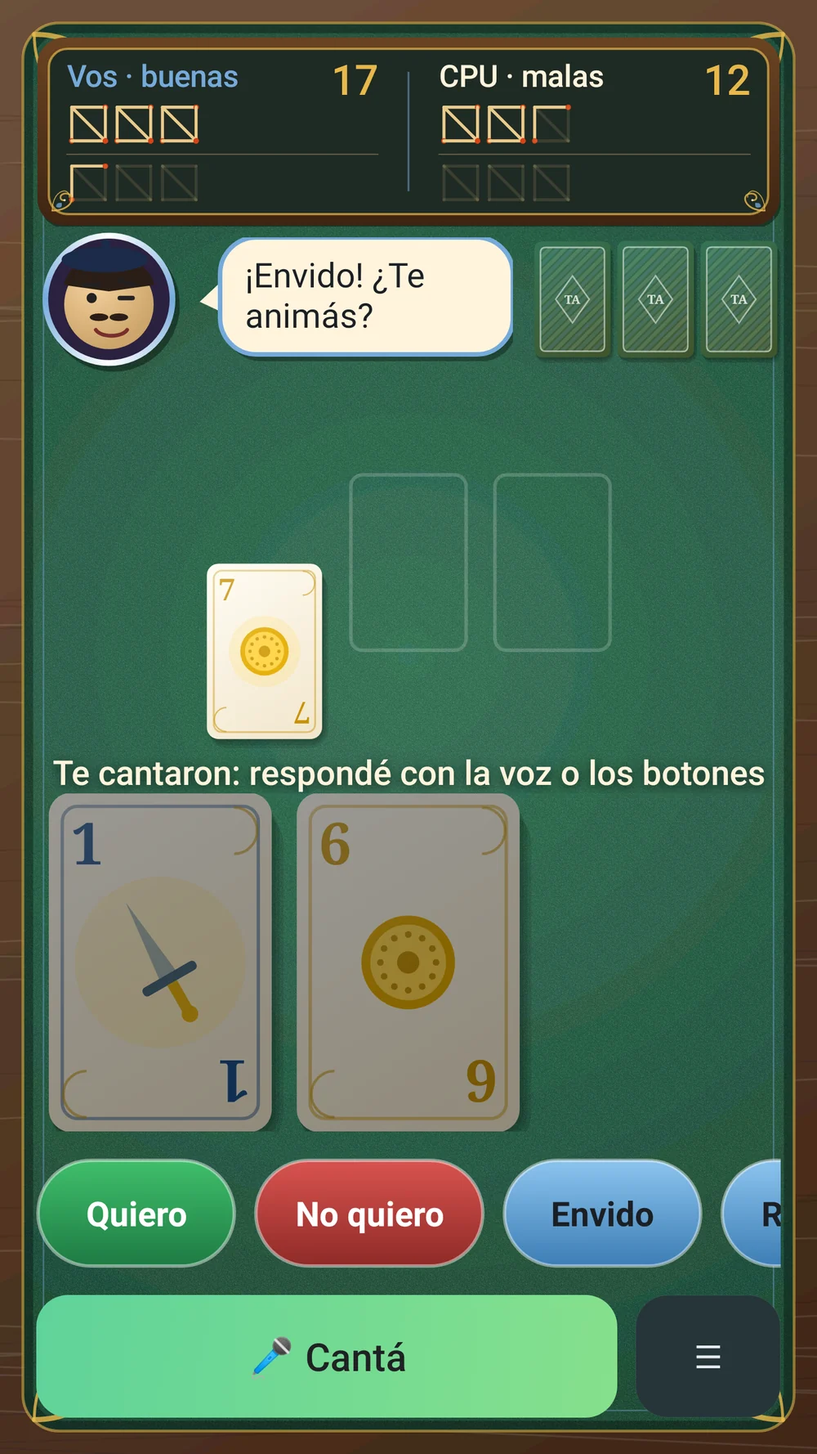
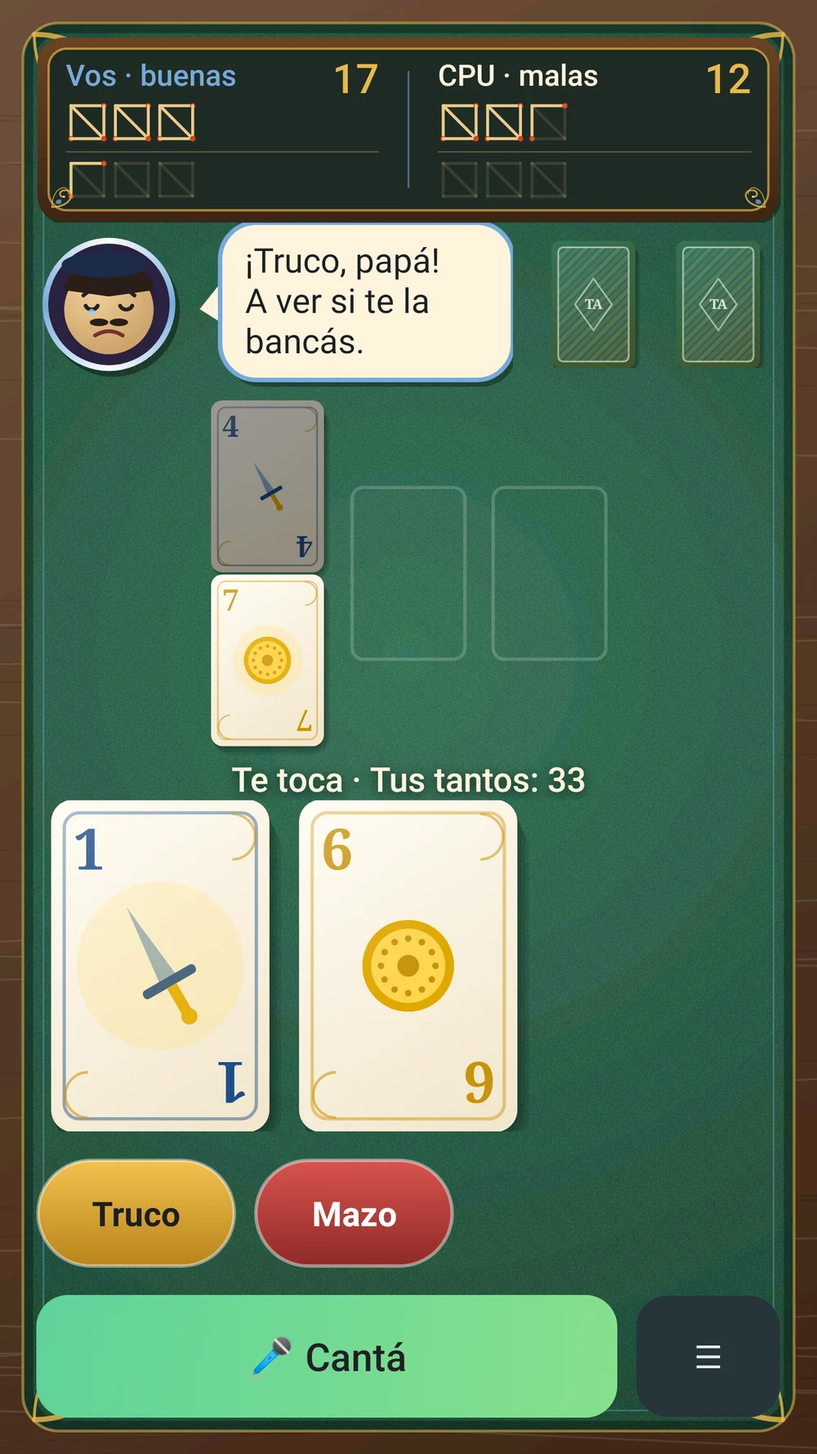
Truco Argento 1.3.0: acento argentino, caras del rival e hinchas

diff --git a/apps/truco-argento.html b/apps/truco-argento.html
@@ -1,14 +1,14 @@
 <!doctype html><html lang="es-AR" data-tema="oscuro" data-raiz=".."><head><meta charset="utf-8"><meta name="viewport" content="width=device-width,initial-scale=1">
-<title>Truco Argento — SumoSoft</title><script type="application/ld+json">{"@context": "https://schema.org", "@type": "SoftwareApplication", "name": "Truco Argento", "description": "Un rival que te conoce: truco por voz contra una CPU que aprende cómo jugás, miente y te chicanea con eso.", "operatingSystem": "Android 9 o superior", "applicationCategory": "UtilitiesApplication", "softwareVersion": "1.2.0", "url": "https://nachosumo-droid.github.io/apps/apps/truco-argento.html", "image": "https://nachosumo-droid.github.io/apps/img/marca/og-image.png", "inLanguage": "es-AR", "publisher": {"@type": "Organization", "name": "SumoSoft", "url": "https://nachosumo-droid.github.io/apps/"}, "offers": {"@type": "Offer", "price": "3999", "priceCurrency": "ARS", "availability": "https://schema.org/InStock", "url": "https://nachosumo-droid.github.io/apps/apps/truco-argento.html"}}</script><meta name="description" content="Un rival que te conoce: truco por voz contra una CPU que aprende cómo jugás, miente y te chicanea con eso."><meta name="theme-color" content="#070b16"><meta name="color-scheme" content="dark light"><link rel="canonical" href="https://nachosumo-droid.github.io/apps/apps/truco-argento.html"><meta property="og:type" content="website"><meta property="og:site_name" content="SumoSoft"><meta property="og:locale" content="es_AR"><meta property="og:title" content="Truco Argento — SumoSoft"><meta property="og:description" content="Un rival que te conoce: truco por voz contra una CPU que aprende cómo jugás, miente y te chicanea con eso."><meta property="og:url" content="https://nachosumo-droid.github.io/apps/apps/truco-argento.html"><meta property="og:image" content="https://nachosumo-droid.github.io/apps/img/marca/og-image.png?v=3"><meta property="og:image:width" content="1200"><meta property="og:image:height" content="630"><meta name="twitter:card" content="summary_large_image"><meta name="twitter:image" content="https://nachosumo-droid.github.io/apps/img/marca/og-image.png?v=3"><link rel="icon" type="image/png" sizes="32x32" href="../img/marca/favicon-32.png?v=3"><link rel="apple-touch-icon" href="../img/marca/apple-touch-icon.png?v=3"><script>try{var t=localStorage.getItem("tema");if(!t)t=matchMedia("(prefers-color-scheme: light)").matches?"claro":"oscuro";document.documentElement.dataset.tema=t}catch(e){}</script>
+<title>Truco Argento — SumoSoft</title><script type="application/ld+json">{"@context": "https://schema.org", "@type": "SoftwareApplication", "name": "Truco Argento", "description": "Un rival que te conoce: truco por voz contra una CPU que aprende cómo jugás, miente y te chicanea con eso.", "operatingSystem": "Android 9 o superior", "applicationCategory": "UtilitiesApplication", "softwareVersion": "1.3.0", "url": "https://nachosumo-droid.github.io/apps/apps/truco-argento.html", "image": "https://nachosumo-droid.github.io/apps/img/marca/og-image.png", "inLanguage": "es-AR", "publisher": {"@type": "Organization", "name": "SumoSoft", "url": "https://nachosumo-droid.github.io/apps/"}, "offers": {"@type": "Offer", "price": "3999", "priceCurrency": "ARS", "availability": "https://schema.org/InStock", "url": "https://nachosumo-droid.github.io/apps/apps/truco-argento.html"}}</script><meta name="description" content="Un rival que te conoce: truco por voz contra una CPU que aprende cómo jugás, miente y te chicanea con eso."><meta name="theme-color" content="#070b16"><meta name="color-scheme" content="dark light"><link rel="canonical" href="https://nachosumo-droid.github.io/apps/apps/truco-argento.html"><meta property="og:type" content="website"><meta property="og:site_name" content="SumoSoft"><meta property="og:locale" content="es_AR"><meta property="og:title" content="Truco Argento — SumoSoft"><meta property="og:description" content="Un rival que te conoce: truco por voz contra una CPU que aprende cómo jugás, miente y te chicanea con eso."><meta property="og:url" content="https://nachosumo-droid.github.io/apps/apps/truco-argento.html"><meta property="og:image" content="https://nachosumo-droid.github.io/apps/img/marca/og-image.png?v=3"><meta property="og:image:width" content="1200"><meta property="og:image:height" content="630"><meta name="twitter:card" content="summary_large_image"><meta name="twitter:image" content="https://nachosumo-droid.github.io/apps/img/marca/og-image.png?v=3"><link rel="icon" type="image/png" sizes="32x32" href="../img/marca/favicon-32.png?v=3"><link rel="apple-touch-icon" href="../img/marca/apple-touch-icon.png?v=3"><script>try{var t=localStorage.getItem("tema");if(!t)t=matchMedia("(prefers-color-scheme: light)").matches?"claro":"oscuro";document.documentElement.dataset.tema=t}catch(e){}</script>
 <link rel="stylesheet" href="../assets/estilo.css?v=11"><link rel="icon" type="image/svg+xml" href="../img/marca/icono.svg?v=3"></head><body>
 <a class="saltar" href="#contenido">Saltar al contenido</a><header><div class="w"><a class="logo" href="../index.html" aria-label="SumoSoft, inicio"><img src="../img/marca/icono.svg?v=3" alt="" width="34" height="34"><span>Sumo<b>Soft</b></span></a><nav aria-label="Principal"><a href="../index.html#apps">Apps</a><a class="oc" href="../index.html#confianza">Por qué nosotros</a><a href="../faq.html">Preguntas</a><a class="oc" href="../contacto.html">Contacto</a><button class="tema" type="button" aria-label="Cambiar tema">☀</button></nav></div></header>
 <main id="contenido"><div class="w"><p class="migas"><a href="../index.html">Inicio</a> › <a href="../index.html#apps">Apps</a> › Truco Argento</p><div class="app-top"><div class="ico" style="--c:#5FD39A"><img src="../img/icon-truco-argento.webp" alt="" width="96" height="96"></div><div><span class="tag">Celular y TV</span><h1>Truco Argento</h1><p style="color:var(--txt2);margin:6px 0 0">Un rival que te conoce: truco por voz contra una CPU que aprende cómo jugás, miente y te chicanea con eso.</p></div></div>
-<p class="titular">Un rival que te conoce: aprende cómo jugás y te chicanea con eso.</p><p class="aviso">Privacidad: el perfil que arma la CPU («Lo que la CPU sabe de vos») queda sólo en tu equipo, no usa internet y se borra con un botón o al desinstalar; no se graba audio, sólo frases cortas de cantos ya reconocidas. Micrófono: la app pide el permiso de micrófono para entender tus cantos. El reconocimiento lo hace el servicio de voz de tu equipo (normalmente Google); según el equipo puede funcionar sin internet o necesitar conexión. La app no graba ni guarda audio. En TV box sin micrófono en el control se juega con los botones. Bluetooth pide el permiso «Dispositivos cercanos» en Android 12 o más. Dos jugadores no usa servidores: los equipos se hablan directo en tu red. No fue probada todavía en todos los equipos.</p><p class="aviso">Para celulares Android 9 o más nuevos y Android TV / TV box con Android 9 o más.</p><div class="descargas"><a class="btn pri" href="https://github.com/nachosumo-droid/apps/releases/download/truco-argento-v1.2.0-web/TrucoArgento-1.2.0-web.apk" download>⬇ 📱📺 Truco Argento — celular y TV</a></div><div class="acciones"><a class="btn" href="#" data-comprar="truco-argento">🛒 Comprar · <span data-precio="truco-argento"></span></a></div><p class="sinpub-app"><span class="sinpub"><svg viewBox="0 0 24 24" fill="none" stroke="currentColor" stroke-width="2.2" stroke-linecap="round" stroke-linejoin="round" aria-hidden="true"><circle cx="12" cy="12" r="9"/><path d="M5.6 5.6l12.8 12.8"/></svg>Sin publicidad. Nunca.</span><span>Pagás una vez y la app es tuya: sin banners, sin videos que te hacen esperar, sin interrupciones. <a href="../index.html#sin-publicidad">Por qué cobramos</a></span></p>
+<p class="titular">Un rival que te conoce: aprende cómo jugás y te chicanea con eso.</p><p class="aviso">Privacidad: el perfil que arma la CPU («Lo que la CPU sabe de vos») queda sólo en tu equipo, no usa internet y se borra con un botón o al desinstalar; no se graba audio, sólo frases cortas de cantos ya reconocidas. Micrófono: la app pide el permiso de micrófono para entender tus cantos. El reconocimiento lo hace el servicio de voz de tu equipo (normalmente Google); según el equipo puede funcionar sin internet o necesitar conexión. La app no graba ni guarda audio. En TV box sin micrófono en el control se juega con los botones. Bluetooth pide el permiso «Dispositivos cercanos» en Android 12 o más. Dos jugadores no usa servidores: los equipos se hablan directo en tu red. No fue probada todavía en todos los equipos.</p><p class="aviso">Para celulares Android 9 o más nuevos y Android TV / TV box con Android 9 o más.</p><div class="descargas"><a class="btn pri" href="https://github.com/nachosumo-droid/apps/releases/download/truco-argento-v1.3.0-web/TrucoArgento-1.3.0-web.apk" download>⬇ 📱📺 Truco Argento — celular y TV</a></div><div class="acciones"><a class="btn" href="#" data-comprar="truco-argento">🛒 Comprar · <span data-precio="truco-argento"></span></a></div><p class="sinpub-app"><span class="sinpub"><svg viewBox="0 0 24 24" fill="none" stroke="currentColor" stroke-width="2.2" stroke-linecap="round" stroke-linejoin="round" aria-hidden="true"><circle cx="12" cy="12" r="9"/><path d="M5.6 5.6l12.8 12.8"/></svg>Sin publicidad. Nunca.</span><span>Pagás una vez y la app es tuya: sin banners, sin videos que te hacen esperar, sin interrupciones. <a href="../index.html#sin-publicidad">Por qué cobramos</a></span></p>
 <p id="msg-compra" class="aviso" hidden></p>
-<div class="shots" tabindex="0" aria-label="Capturas"><a href="../img/truco-argento-0-hd.webp" class="lb" data-lb="truco-argento"><img src="../img/truco-argento-0.webp" alt="Un rival que te conoce (tocá para ampliar)" width="1000" height="562" loading="lazy"><span class="cap">Un rival que te conoce</span></a><a href="../img/truco-argento-1-hd.webp" class="lb" data-lb="truco-argento"><img src="../img/truco-argento-1.webp" alt="Intro bien argentina: bandera, tres estrellas, asado, mate y papelitos (tocá para ampliar)" width="1000" height="1778" loading="lazy"><span class="cap">Intro bien argentina: bandera, tres estrellas, asado, mate y papelitos</span></a><a href="../img/truco-argento-2-hd.webp" class="lb" data-lb="truco-argento"><img src="../img/truco-argento-2.webp" alt="Lo que la CPU sabe de vos (y podés borrar) (tocá para ampliar)" width="1000" height="1778" loading="lazy"><span class="cap">Lo que la CPU sabe de vos (y podés borrar)</span></a><a href="../img/truco-argento-3-hd.webp" class="lb" data-lb="truco-argento"><img src="../img/truco-argento-3.webp" alt="La mesa: tus cartas y el rival que te carga (tocá para ampliar)" width="1000" height="1778" loading="lazy"><span class="cap">La mesa: tus cartas y el rival que te carga</span></a><a href="../img/truco-argento-4-hd.webp" class="lb" data-lb="truco-argento"><img src="../img/truco-argento-4.webp" alt="Respondé con la voz o con los botones (tocá para ampliar)" width="1000" height="1778" loading="lazy"><span class="cap">Respondé con la voz o con los botones</span></a><a href="../img/truco-argento-5-hd.webp" class="lb" data-lb="truco-argento"><img src="../img/truco-argento-5.webp" alt="Contra la CPU o mano a mano (tocá para ampliar)" width="1000" height="1778" loading="lazy"><span class="cap">Contra la CPU o mano a mano</span></a><a href="../img/truco-argento-6-hd.webp" class="lb" data-lb="truco-argento"><img src="../img/truco-argento-6.webp" alt="Anotador de fósforos (sorpresa) (tocá para ampliar)" width="1000" height="1778" loading="lazy"><span class="cap">Anotador de fósforos (sorpresa)</span></a><a href="../img/truco-argento-7-hd.webp" class="lb" data-lb="truco-argento"><img src="../img/truco-argento-7.webp" alt="Voz, dificultad, flor y temas (tocá para ampliar)" width="1000" height="1778" loading="lazy"><span class="cap">Voz, dificultad, flor y temas</span></a><a href="../img/truco-argento-8-hd.webp" class="lb" data-lb="truco-argento"><img src="../img/truco-argento-8.webp" alt="En la TV, con el control (tocá para ampliar)" width="1000" height="562" loading="lazy"><span class="cap">En la TV, con el control</span></a><a href="../img/truco-argento-9-hd.webp" class="lb" data-lb="truco-argento"><img src="../img/truco-argento-9.webp" alt="Se juega con la voz (tocá para ampliar)" width="1000" height="1778" loading="lazy"><span class="cap">Se juega con la voz</span></a></div>
-<div class="cols"><div><section class="distinta"><h2>Lo que la hace distinta</h2><ul><li>🧠 Te conoce: recuerda tus faroles, tus achiques y tus frases, y te las echa en cara.</li><li>🔒 Lo que aprende queda en tu equipo: sin internet, y lo borrás cuando quieras.</li><li>🗣 Se juega cantando: la app te escucha.</li><li>😈 La CPU miente al azar: nunca sabés si tiene.</li><li>🇦🇷 Voz con tonada y muletillas argentinas.</li><li>📶 Mano a mano por Wi-Fi o Bluetooth, sin internet.</li><li>📺 El mismo APK en el celular y en la TV.</li><li>🔥 Anotador de fósforos de regalo.</li><li>🚫 Sin publicidad. Nunca.</li></ul></section><h2>Qué es</h2><p>Un rival que te conoce: la CPU aprende cómo jugás (cuándo mentís en el envido o en el truco, si te achicás o siempre subís, si cantás falta cuando venís perdiendo y hasta tus frases de siempre) y te chicanea con eso: «vos siempre cantás falta cuando venís perdiendo», «otra vez con tu frase de siempre». Lo que aprende queda sólo en tu equipo, sin internet, y lo podés ver y borrar en «Lo que la CPU sabe de vos». Es el truco argentino clásico, pero se juega con la voz: cantás «truco», «quiero retruco», «envido», «real envido», «falta envido» o «me voy al mazo» en voz alta, y con el dedo sólo elegís qué carta tirar. La CPU te contesta hablando con tonada argentina (voz de hombre o de mujer, a elección), te carga, te apura y miente: a veces canta truco con basura y a veces se hace el muerto con el ancho, así nunca sabés. Cuatro dificultades, partidas a 15 o a 30 con malas y buenas, flor opcional, y mano a mano entre dos equipos por Wi-Fi o Bluetooth, sin internet. Y de regalo, un anotador de fósforos para cuando juegan con cartas de verdad.</p><h2>Qué hace</h2><ul><li>Un rival que te conoce: partida a partida, la CPU arma un perfil tuyo (cuánto mentís en el envido y en el truco, cuántas veces no querés o te vas al mazo y cuántas subís, si cantás falta cuando venís perdiendo, y las frases cortas que más usás al cantar). Lo usa para decidir en todos los niveles (más cuanto más difícil) y para chicanearte con eso. En Ajustes → «Lo que la CPU sabe de vos» ves todo y lo borrás con un botón.</li><li>Jugás al truco contra la CPU: cantás en voz alta (truco, retruco, vale cuatro, envido, real envido, falta envido, flor, quiero, no quiero, me voy al mazo) y tocás la carta que querés tirar.</li><li>La CPU habla con voz (hombre o mujer, en Ajustes), usa muletillas y chicanas, y miente al azar según la dificultad: Tranqui, De boliche, Picante o Maestro de esquina.</li><li>Reglas completas: pardas, «el envido está primero», falta envido (en las malas gana el partido), flor y contraflor opcionales, al mazo.</li><li>Dos jugadores: un equipo crea la partida y el otro se une, por Wi-Fi (misma red) o por Bluetooth (equipos vinculados). No usa internet.</li><li>Anotador de fósforos: para partidas con cartas de verdad; se anota tocando o diciendo «dos para nosotros».</li></ul><h2>Requisitos</h2><ul><li>Celular Android 9 o más nuevo, o Android TV / TV box con Android 9 o más</li><li>Micrófono y reconocimiento de voz de Google (si no hay, se juega con los botones)</li><li>Para dos jugadores: mismo Wi-Fi, o Bluetooth con los equipos vinculados</li></ul><h2>Funciones</h2><ul class="f"><li>🧠 Un rival que te conoce: aprende cómo jugás y te chicanea con eso (todo queda en tu equipo)</li><li>🇦🇷 Nueva mesa de bar: paño verde, madera, filete porteño, cartas animadas y un rival con cara que te habla en globitos</li><li>🇦🇷 Intro bien argentina: bandera, tres estrellas, asado, mate y papelitos</li><li>Se juega con la voz: cantás y la app entiende (con botones de respaldo)</li><li>Rival con voz argentina, de hombre o de mujer</li><li>La CPU miente: faroles al azar, nunca sabés si tiene</li><li>Reglas completas: truco, retruco, vale cuatro, envido, real envido, falta envido, flor opcional, mazo</li><li>A 15 o a 30 con malas y buenas, tanteador con fósforos</li><li>Dos jugadores por Wi-Fi o Bluetooth, sin internet</li><li>En la TV con el control remoto</li><li>Anotador de fósforos por voz para partidas de verdad</li></ul>
-<h2>Cómo se instala</h2><ol class="pasos-i"><li>Descargá el APK e instalalo (si Android pregunta, permití instalar desde el navegador). Es el mismo APK para el celular y la TV.</li><li>Abrila, mirá la guía y permití el micrófono (sólo se usa mientras jugás; no se graba nada).</li><li>En Ajustes elegí la voz del rival (hombre o mujer) y la dificultad. Para comprar: «Activar» → «Comprar con Mercado Pago».</li></ol><h2>Novedades</h2><ul><li><b>1.2.0</b> — Intro nueva bien argentina (bandera flameando, tres estrellas, asado, mate y papelitos; se saltea y se vuelve a ver desde Ajustes). Mesa nueva: paño verde con textura y borde de madera, filete porteño, cartas más lindas con sombras, animaciones al repartir y tirar, rival con cara y globitos, tanteador de pizarrón y botones de canto que brillan.</li><li><b>1.1.0</b> — Un rival que te conoce: la CPU aprende cómo jugás (faroles, achiques, subidas, falta cuando venís perdiendo y tus frases) y te chicanea con eso. Nueva pantalla «Lo que la CPU sabe de vos» con botón para borrar. Todo queda en tu equipo.</li><li><b>1.0.0</b> — Primera versión.</li></ul></div>
-<aside class="box"><dl><dt>Versión</dt><dd>1.2.0</dd><dt>Requisitos</dt><dd>Android 9 o superior · Android TV / TV box y celular Android</dd><dt>Prueba</dt><dd>7 días, todas las funciones</dd><dt>Licencia</dt><dd>De por vida, 1 equipo (podés pasarla a otro con tu código)</dd><dt>Publicidad</dt><dd>Ninguna. Nunca.</dd><dt>Pago</dt><dd>Mercado Pago</dd><dt>Precio</dt><dd data-precio="truco-argento"></dd></dl>
+<div class="shots" tabindex="0" aria-label="Capturas"><a href="../img/truco-argento-0-hd.webp" class="lb" data-lb="truco-argento"><img src="../img/truco-argento-0.webp" alt="Un rival que te conoce (tocá para ampliar)" width="1000" height="562" loading="lazy"><span class="cap">Un rival que te conoce</span></a><a href="../img/truco-argento-1-hd.webp" class="lb" data-lb="truco-argento"><img src="../img/truco-argento-1.webp" alt="Intro bien argentina: dos hinchas, bandera, tres estrellas, asado, mate y papelitos (tocá para ampliar)" width="1000" height="1778" loading="lazy"><span class="cap">Intro bien argentina: dos hinchas, bandera, tres estrellas, asado, mate y papelitos</span></a><a href="../img/truco-argento-2-hd.webp" class="lb" data-lb="truco-argento"><img src="../img/truco-argento-2.webp" alt="Lo que la CPU sabe de vos (y podés borrar) (tocá para ampliar)" width="1000" height="1778" loading="lazy"><span class="cap">Lo que la CPU sabe de vos (y podés borrar)</span></a><a href="../img/truco-argento-3-hd.webp" class="lb" data-lb="truco-argento"><img src="../img/truco-argento-3.webp" alt="La mesa: tus cartas y el rival que te carga (tocá para ampliar)" width="1000" height="1778" loading="lazy"><span class="cap">La mesa: tus cartas y el rival que te carga</span></a><a href="../img/truco-argento-4-hd.webp" class="lb" data-lb="truco-argento"><img src="../img/truco-argento-4.webp" alt="Respondé con la voz o con los botones (tocá para ampliar)" width="1000" height="1778" loading="lazy"><span class="cap">Respondé con la voz o con los botones</span></a><a href="../img/truco-argento-5-hd.webp" class="lb" data-lb="truco-argento"><img src="../img/truco-argento-5.webp" alt="Contra la CPU o mano a mano (tocá para ampliar)" width="1000" height="1778" loading="lazy"><span class="cap">Contra la CPU o mano a mano</span></a><a href="../img/truco-argento-6-hd.webp" class="lb" data-lb="truco-argento"><img src="../img/truco-argento-6.webp" alt="Anotador de fósforos (sorpresa) (tocá para ampliar)" width="1000" height="1778" loading="lazy"><span class="cap">Anotador de fósforos (sorpresa)</span></a><a href="../img/truco-argento-7-hd.webp" class="lb" data-lb="truco-argento"><img src="../img/truco-argento-7.webp" alt="Voz, dificultad, flor y temas (tocá para ampliar)" width="1000" height="1778" loading="lazy"><span class="cap">Voz, dificultad, flor y temas</span></a><a href="../img/truco-argento-8-hd.webp" class="lb" data-lb="truco-argento"><img src="../img/truco-argento-8.webp" alt="En la TV, con el control (tocá para ampliar)" width="1000" height="562" loading="lazy"><span class="cap">En la TV, con el control</span></a><a href="../img/truco-argento-9-hd.webp" class="lb" data-lb="truco-argento"><img src="../img/truco-argento-9.webp" alt="Se juega con la voz (tocá para ampliar)" width="1000" height="1778" loading="lazy"><span class="cap">Se juega con la voz</span></a></div>
+<div class="cols"><div><section class="distinta"><h2>Lo que la hace distinta</h2><ul><li>🧠 Te conoce: recuerda tus faroles, tus achiques y tus frases, y te las echa en cara.</li><li>🔒 Lo que aprende queda en tu equipo: sin internet, y lo borrás cuando quieras.</li><li>🗣 Se juega cantando: la app te escucha.</li><li>😈 La CPU miente al azar: nunca sabés si tiene.</li><li>🇦🇷 Voz con tonada y muletillas argentinas.</li><li>📶 Mano a mano por Wi-Fi o Bluetooth, sin internet.</li><li>📺 El mismo APK en el celular y en la TV.</li><li>🔥 Anotador de fósforos de regalo.</li><li>🚫 Sin publicidad. Nunca.</li></ul></section><h2>Qué es</h2><p>Un rival que te conoce: la CPU aprende cómo jugás (cuándo mentís en el envido o en el truco, si te achicás o siempre subís, si cantás falta cuando venís perdiendo y hasta tus frases de siempre) y te chicanea con eso: «vos siempre cantás falta cuando venís perdiendo», «otra vez con tu frase de siempre». Lo que aprende queda sólo en tu equipo, sin internet, y lo podés ver y borrar en «Lo que la CPU sabe de vos». Es el truco argentino clásico, pero se juega con la voz: cantás «truco», «quiero retruco», «envido», «real envido», «falta envido» o «me voy al mazo» en voz alta, y con el dedo sólo elegís qué carta tirar. La CPU te contesta hablando con tonada argentina (voz de hombre o de mujer, a elección), te carga, te apura y miente: a veces canta truco con basura y a veces se hace el muerto con el ancho, así nunca sabés. Cuatro dificultades, partidas a 15 o a 30 con malas y buenas, flor opcional, y mano a mano entre dos equipos por Wi-Fi o Bluetooth, sin internet. Y de regalo, un anotador de fósforos para cuando juegan con cartas de verdad.</p><h2>Qué hace</h2><ul><li>Un rival que te conoce: partida a partida, la CPU arma un perfil tuyo (cuánto mentís en el envido y en el truco, cuántas veces no querés o te vas al mazo y cuántas subís, si cantás falta cuando venís perdiendo, y las frases cortas que más usás al cantar). Lo usa para decidir en todos los niveles (más cuanto más difícil) y para chicanearte con eso. En Ajustes → «Lo que la CPU sabe de vos» ves todo y lo borrás con un botón.</li><li>Jugás al truco contra la CPU: cantás en voz alta (truco, retruco, vale cuatro, envido, real envido, falta envido, flor, quiero, no quiero, me voy al mazo) y tocás la carta que querés tirar.</li><li>La CPU habla con voz (hombre o mujer, en Ajustes), usa muletillas y chicanas, y miente al azar según la dificultad: Tranqui, De boliche, Picante o Maestro de esquina.</li><li>Reglas completas: pardas, «el envido está primero», falta envido (en las malas gana el partido), flor y contraflor opcionales, al mazo.</li><li>Dos jugadores: un equipo crea la partida y el otro se une, por Wi-Fi (misma red) o por Bluetooth (equipos vinculados). No usa internet.</li><li>Anotador de fósforos: para partidas con cartas de verdad; se anota tocando o diciendo «dos para nosotros».</li></ul><h2>Requisitos</h2><ul><li>Celular Android 9 o más nuevo, o Android TV / TV box con Android 9 o más</li><li>Micrófono y reconocimiento de voz de Google (si no hay, se juega con los botones)</li><li>Para dos jugadores: mismo Wi-Fi, o Bluetooth con los equipos vinculados</li></ul><h2>Funciones</h2><ul class="f"><li>🧠 Un rival que te conoce: aprende cómo jugás y te chicanea con eso (todo queda en tu equipo)</li><li>🇦🇷 Nueva mesa de bar: paño verde, madera, filete porteño, cartas animadas y un rival con cara que te habla en globitos</li><li>🗣 Ahora habla con acento argentino de verdad: frases grabadas rioplatenses, de hombre o de mujer</li><li>😏 El rival pone caras: se agranda cuando gana, se enoja cuando pierde, se pone nervioso con tu truco y se burla si te agarra mintiendo</li><li>🇦🇷 Intro bien argentina: dos hinchas de dibujito, bandera, tres estrellas, asado, mate y papelitos</li><li>Se juega con la voz: cantás y la app entiende (con botones de respaldo)</li><li>Rival con voz argentina, de hombre o de mujer</li><li>La CPU miente: faroles al azar, nunca sabés si tiene</li><li>Reglas completas: truco, retruco, vale cuatro, envido, real envido, falta envido, flor opcional, mazo</li><li>A 15 o a 30 con malas y buenas, tanteador con fósforos</li><li>Dos jugadores por Wi-Fi o Bluetooth, sin internet</li><li>En la TV con el control remoto</li><li>Anotador de fósforos por voz para partidas de verdad</li></ul>
+<h2>Cómo se instala</h2><ol class="pasos-i"><li>Descargá el APK e instalalo (si Android pregunta, permití instalar desde el navegador). Es el mismo APK para el celular y la TV.</li><li>Abrila, mirá la guía y permití el micrófono (sólo se usa mientras jugás; no se graba nada).</li><li>En Ajustes elegí la voz del rival (hombre o mujer) y la dificultad. Para comprar: «Activar» → «Comprar con Mercado Pago».</li></ol><h2>Novedades</h2><ul><li><b>1.3.0</b> — Acento argentino de verdad: 189 frases grabadas con voz rioplatense (hombre y mujer), y las frases que cambian se arman con pedazos grabados. Nueva opción «Voz argentina del equipo» que detecta e instala la voz es-AR. El rival pone caras animadas según la jugada (canchero, enojado, triste, pícaro, nervioso, burlón, festejo y derrota). En la intro, dos hinchas de dibujito que saltan, besan la copa y festejan.</li><li><b>1.2.0</b> — Intro nueva bien argentina (bandera flameando, tres estrellas, asado, mate y papelitos; se saltea y se vuelve a ver desde Ajustes). Mesa nueva: paño verde con textura y borde de madera, filete porteño, cartas más lindas con sombras, animaciones al repartir y tirar, rival con cara y globitos, tanteador de pizarrón y botones de canto que brillan.</li><li><b>1.1.0</b> — Un rival que te conoce: la CPU aprende cómo jugás (faroles, achiques, subidas, falta cuando venís perdiendo y tus frases) y te chicanea con eso. Nueva pantalla «Lo que la CPU sabe de vos» con botón para borrar. Todo queda en tu equipo.</li><li><b>1.0.0</b> — Primera versión.</li></ul></div>
+<aside class="box"><dl><dt>Versión</dt><dd>1.3.0</dd><dt>Requisitos</dt><dd>Android 9 o superior · Android TV / TV box y celular Android</dd><dt>Prueba</dt><dd>7 días, todas las funciones</dd><dt>Licencia</dt><dd>De por vida, 1 equipo (podés pasarla a otro con tu código)</dd><dt>Publicidad</dt><dd>Ninguna. Nunca.</dd><dt>Pago</dt><dd>Mercado Pago</dd><dt>Precio</dt><dd data-precio="truco-argento"></dd></dl>
 <p style="font-size:14px;color:var(--txt2)">¿Dudas? Mirá las <a href="../faq.html">preguntas frecuentes</a>.</p></aside></div></div></main>
 <footer><div class="w"><div class="pie"><div><a class="logo" href="../index.html"><img src="../img/marca/icono.svg?v=3" alt="" width="34" height="34"><span>Sumo<b>Soft</b></span></a><p style="margin:0;max-width:340px">Apps para Android TV y celular, pensadas para el control remoto y hechas en Argentina.</p></div><div><h4>Sitio</h4><a href="../index.html#apps">Apps</a><a href="../faq.html">Preguntas frecuentes</a><a href="../contacto.html">Contacto</a></div><div><h4>Legal</h4><a href="../privacidad.html">Privacidad</a><a href="../terminos.html">Términos</a><a href="../reembolsos.html">Reembolsos y arrepentimiento</a></div></div><div class="legal"><span>© 2026 SumoSoft</span><span>Pagos procesados por Mercado Pago</span></div><p class="credito" style="margin:14px 0 0;font-size:12px;color:var(--txt2);opacity:.8">SumoSoft by Jiav (Buenos Aires, Argentina)</p></div></footer>
 <script src="../assets/sitio.js?v=11" defer></script><script src="../assets/marca.js?v=11" defer></script></body></html>

diff --git a/README.md b/README.md
@@ -68,8 +68,8 @@ Cada app trae 7 días de prueba gratis y licencia de por vida.
 
 ## Juegos
 
-- **🃏 Truco Argento** v1.2.0 — Un rival que te conoce: truco por voz contra una CPU que aprende cómo jugás, miente y te chicanea con eso.  
-  [⬇ APK](https://github.com/nachosumo-droid/apps/releases/download/truco-argento-v1.2.0-web/TrucoArgento-1.2.0-web.apk) (v1.2.0) · [página](https://nachosumo-droid.github.io/apps/apps/truco-argento.html)
+- **🃏 Truco Argento** v1.3.0 — Un rival que te conoce: truco por voz contra una CPU que aprende cómo jugás, miente y te chicanea con eso.  
+  [⬇ APK](https://github.com/nachosumo-droid/apps/releases/download/truco-argento-v1.3.0-web/TrucoArgento-1.3.0-web.apk) (v1.3.0) · [página](https://nachosumo-droid.github.io/apps/apps/truco-argento.html)
 - **🐹 Gordi** v4.1.4 — Tu mascota virtual: cuidala, jugá y aprendé con ella.  
   [⬇ APK](https://github.com/nachosumo-droid/apps/releases/download/gordi-v4.1.4-web/Gordi-4.1.4-web.apk) (v4.1.4) · [página](https://nachosumo-droid.github.io/apps/apps/gordi.html)
 - **🍷 Gordi Adultos** v1.0.4 — La edición para adultos de Gordi: cocina, gym, trabajo y finanzas personales.  
